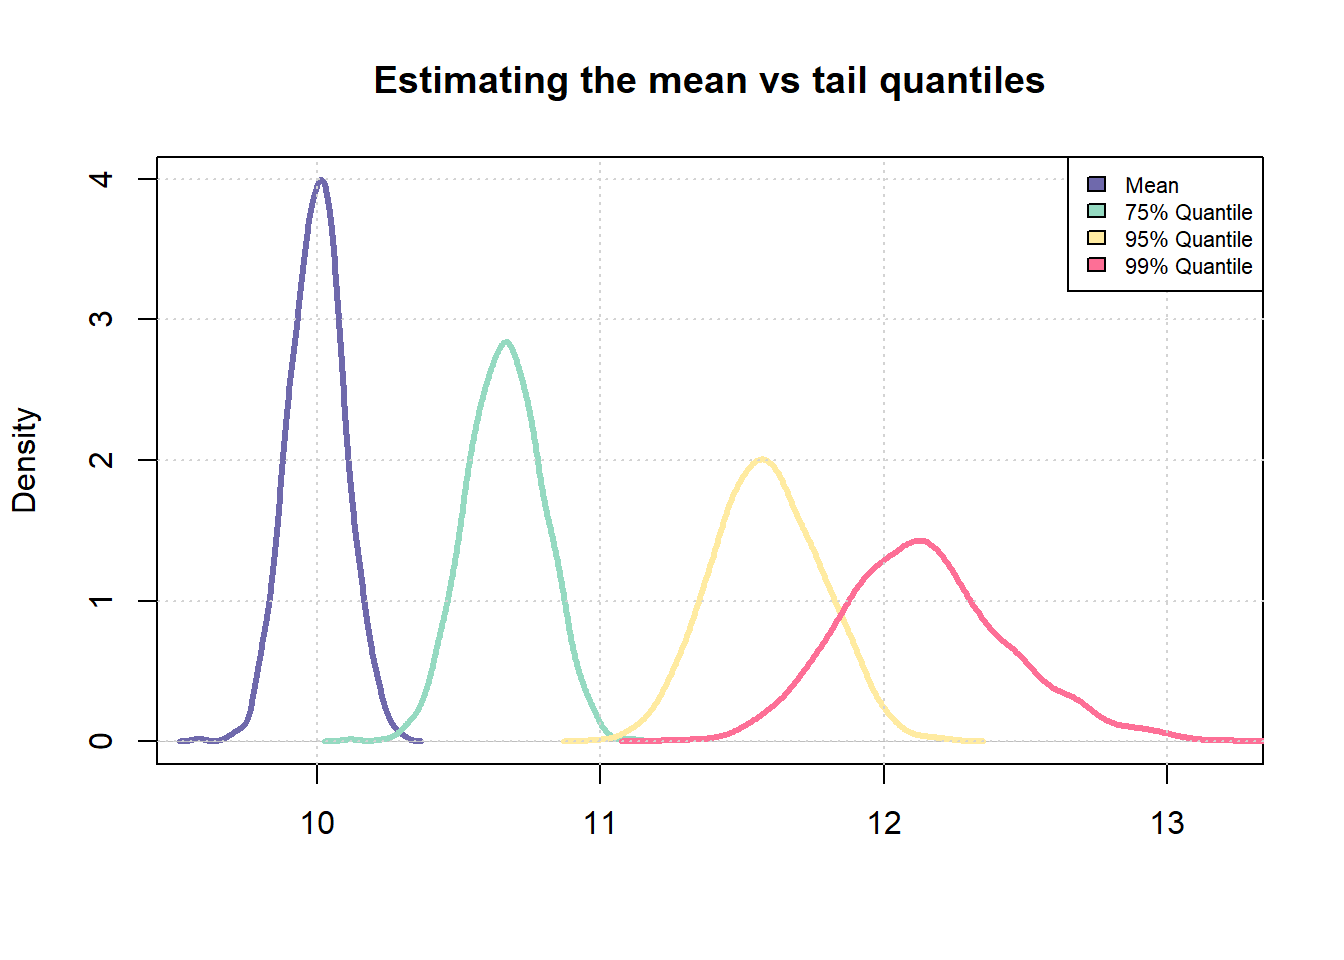
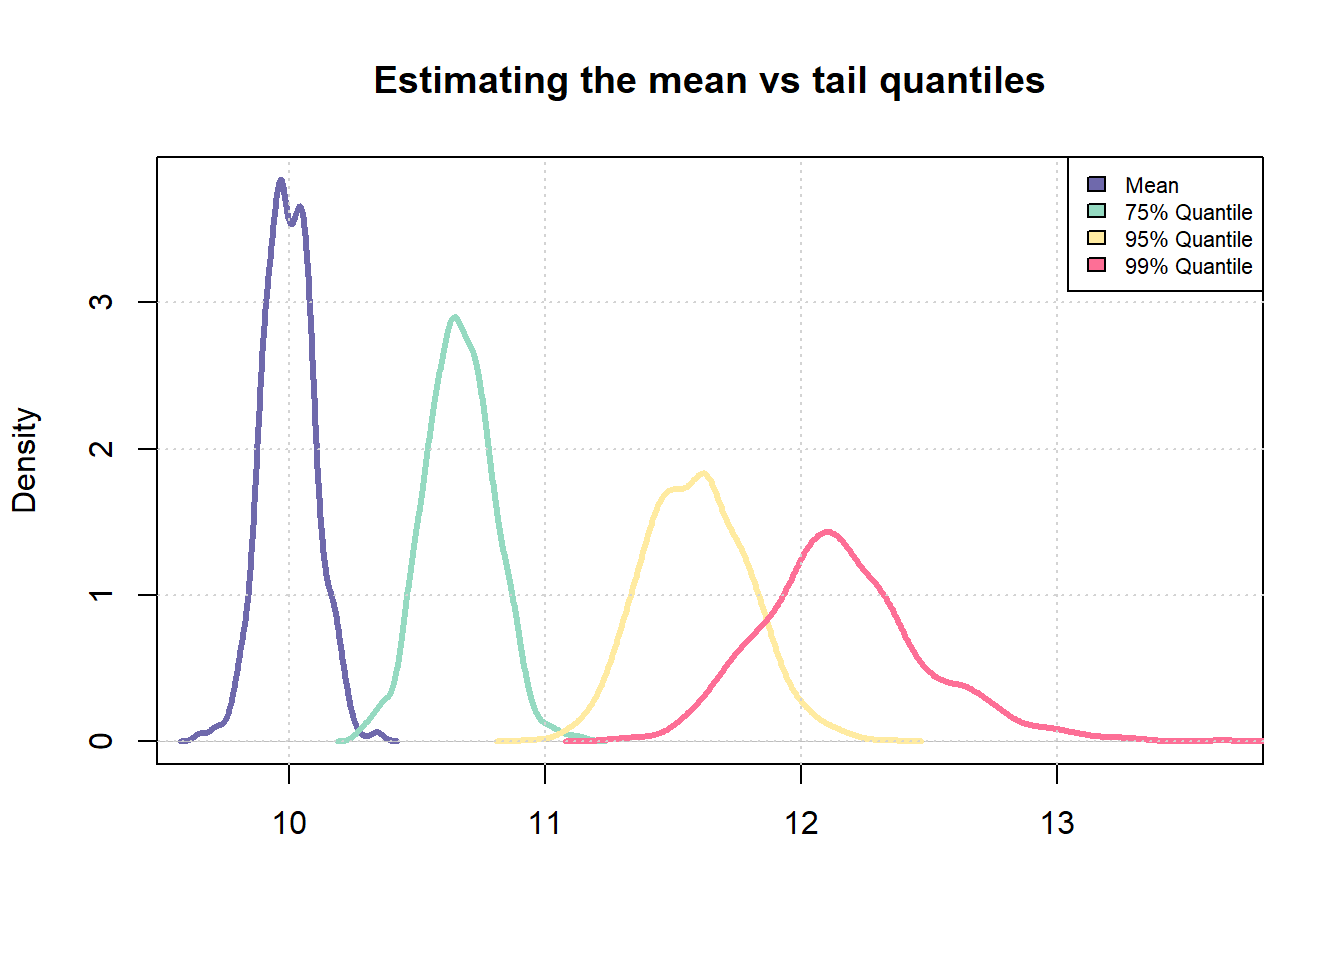
Updated the post on reliability

diff --git a/content/post/assessing_score_reliability/index.md b/content/post/assessing_score_reliability/index.md
@@ -50,11 +50,11 @@ sample_99_quantile <- apply(samples, 1, quantile, p = 0.99)
 
 ```r
 sd(sample_means)/mean(sample_means)
-## [1] 0.009920227
+## [1] 0.01009095
 sd(sample_75_quantile)/mean(sample_75_quantile)
-## [1] 0.01267011
+## [1] 0.0126789
 sd(sample_95_quantile)/mean(sample_75_quantile)
-## [1] 0.01808169
+## [1] 0.01935812
 ```
 
 
@@ -139,16 +139,16 @@ head(boot_sample, 3)
 ## # A tibble: 3 x 2
 ##   splits               id          
 ##   <list>               <chr>       
-## 1 <split [10000/3687]> Bootstrap001
-## 2 <split [10000/3684]> Bootstrap002
-## 3 <split [10000/3673]> Bootstrap003
+## 1 <split [10000/3685]> Bootstrap001
+## 2 <split [10000/3661]> Bootstrap002
+## 3 <split [10000/3706]> Bootstrap003
 ```
 
 
 ```r
 boot_sample$splits[[1]]
 ## <Analysis/Assess/Total>
-## <10000/3687/10000>
+## <10000/3685/10000>
 ```
 
 Each row represents a separate bootstrapped sample whereas within each sample, there are two sub-samples namely an `analysis set` and an `assessment set`. To retrieve a bootstrapped sample as a `data.frame`, the package provides two helper functions -  `analysis()` and `assessment()`
@@ -158,11 +158,11 @@ Each row represents a separate bootstrapped sample whereas within each sample, t
 # Show the first 5 rows and 5 columns of the first sample
 analysis(boot_sample$splits[[1]]) %>% .[1:5, 1:5]
 ##         V1        id member_id loan_amnt funded_amnt
-## 6954 18600  96884749        -1     10000       10000
-## 9594 76420 118163954        -1      2400        2400
-## 1449 36265  61493581        -1      1000        1000
-## 3545 99641  86433757        -1      8000        8000
-## 6888  8023 143049068        -1     23500       23500
+## 5951 80692    550253        -1      2000        2000
+## 8110  1508 141620649        -1     11000       11000
+## 5967 32655 145429387        -1     22000       22000
+## 4470 31631  57793181        -1      5000        5000
+## 4962 73667 113597640        -1      5000        5000
 ```
 
 The [getting started](https://rsample.tidymodels.org/articles/rsample.html) page of the `rsample` package has additional information.
@@ -199,7 +199,7 @@ pred <- glm_model(train)
 
 # Check output
 range(pred)  # Output is on log odds scale
-## [1] -9.494565  1.306407
+## [1] -22.420948   1.261281
 ```
 ## Fitting the model repeatedly
 Now we need to fit the model repeatedly on each of the bootstrapped samples and store the fitted values. And since we are using `R`, for-loops are not allowed :laughing:
@@ -218,7 +218,7 @@ output <- lapply(boot_sample$splits, function(x){
 # Collate all predictions into a vector 
 boot_preds <- do.call(c, output)
 range(boot_preds)
-## [1] -137.316419    7.034918
+## [1] -141.7950    5.5045
 ```
 
 
@@ -236,7 +236,7 @@ boot_preds[boot_preds > q_high] <- q_high
 boot_preds[boot_preds < q_low] <- q_low
 
 range(boot_preds)
-## [1] -5.0325237 -0.2229331
+## [1] -5.0462719 -0.2328358
 ```
 
 ```r
@@ -245,12 +245,12 @@ boot_preds <- data.frame(pred = boot_preds,
                          id = rep(1:length(boot_sample$splits), each = nrow(sample)))
 head(boot_preds)
 ##         pred id
-## 1 -2.6100002  1
-## 2 -1.3568856  1
-## 3 -1.9188004  1
-## 4 -2.3304986  1
-## 5 -0.2229331  1
-## 6 -0.4803189  1
+## 1 -1.8864076  1
+## 2 -0.7738626  1
+## 3 -0.2656913  1
+## 4 -1.4904858  1
+## 5 -2.0865013  1
+## 6 -3.5733041  1
 ```
 
 ## Scaling model predictions
@@ -326,5 +326,73 @@ As expected, the model's predictions are more reliable within a certain range of
 While the outcome of this experiment is not unexpected, an interesting question could be - should analysts and model users define an **operating range** for their models? In this example, we could set lower and upper limits at `700` and `800` respectively and any borrower receiving a score beyond these thresholds could be assigned a generic value of `700-` or `800+`.
 
 That said, binning features mitigates this to a certain extent since the model cannot generate predictions beyond a certain range of values. 
+
+## An useful extension 
+
+<small>*Special thanks to [Richard Warnung](https://disqus.com/by/richardwarnung/) for his comments*</small>
+
+In the above analysis, not only did we fit the model repeatedly on different datasets, but we made predictions on different datasets as well. We can remove the effects of the latter if we make predictions on the same test dataset. Here's some code to do this. 
+
+
+```r
+
+# Create overall training and testing datasets 
+id <- sample(1:nrow(sample), size = nrow(sample)*0.8, replace = F)
+
+train_data <- sample[id,]
+test_data <- sample[-id,]
+
+# Bootstrapped samples are now pulled only from the overall training dataset
+boot_sample <- bootstraps(data = train_data, times = 80)
+
+# Using the same function from before but predicting on the same test dataset
+glm_model <- function(train, test){
+  
+  mdl <- glm(bad_flag ~
+               loan_amnt + funded_amnt + annual_inc + delinq_2yrs +
+               inq_last_6mths + mths_since_last_delinq + fico_range_low +
+               mths_since_last_record + revol_util + total_pymnt,
+             family = "binomial",
+             data = train)
+  
+  return(predict(mdl, newdata = test))
+}
+
+# Train and predict repeatedly
+output <- lapply(boot_sample$splits, function(x){
+  train <- analysis(x)
+  pred <- glm_model(train, test_data)
+
+  return(pred)
+})
+
+# Collate data into a single data.frame
+boot_preds <- do.call(c, output)
+boot_preds <- data.frame(pred = boot_preds, 
+                         id = rep(1:length(boot_sample$splits), each = nrow(sample)))
+
+boot_preds$scores <- scaling_func(boot_preds$pred, 30, 2, 700)
+
+# Forcing scores to a range
+boot_preds$scores <- sapply(boot_preds$scores, min, 900)
+
+# Bin the outputs for easier charting 
+breaks <- quantile(boot_preds$scores, probs = seq(0, 1, length.out = 20))
+boot_preds$bins <- cut(boot_preds$scores, breaks = unique(breaks), include.lowest = T, right = T)
+
+# Chart
+boot_preds %>%
+  group_by(bins) %>%
+  summarise(std_dev = sd(scores)) %>%
+  ggplot(aes(x = bins, y = std_dev)) +
+  geom_col(color = "black", fill = "#90AACB") +
+  theme_minimal() + 
+  theme(axis.text.x = element_text(angle = 90)) + 
+  theme(legend.position = "none") + 
+  labs(title = "Variability in model predictions across samples", 
+       subtitle = "Prediction set is fixed", 
+       x = "Score Range", 
+       y = "Standard Deviation")
+```
 
 *Thoughts? Comments? Helpful? Not helpful? Like to see anything else added in here? Let me know!*
